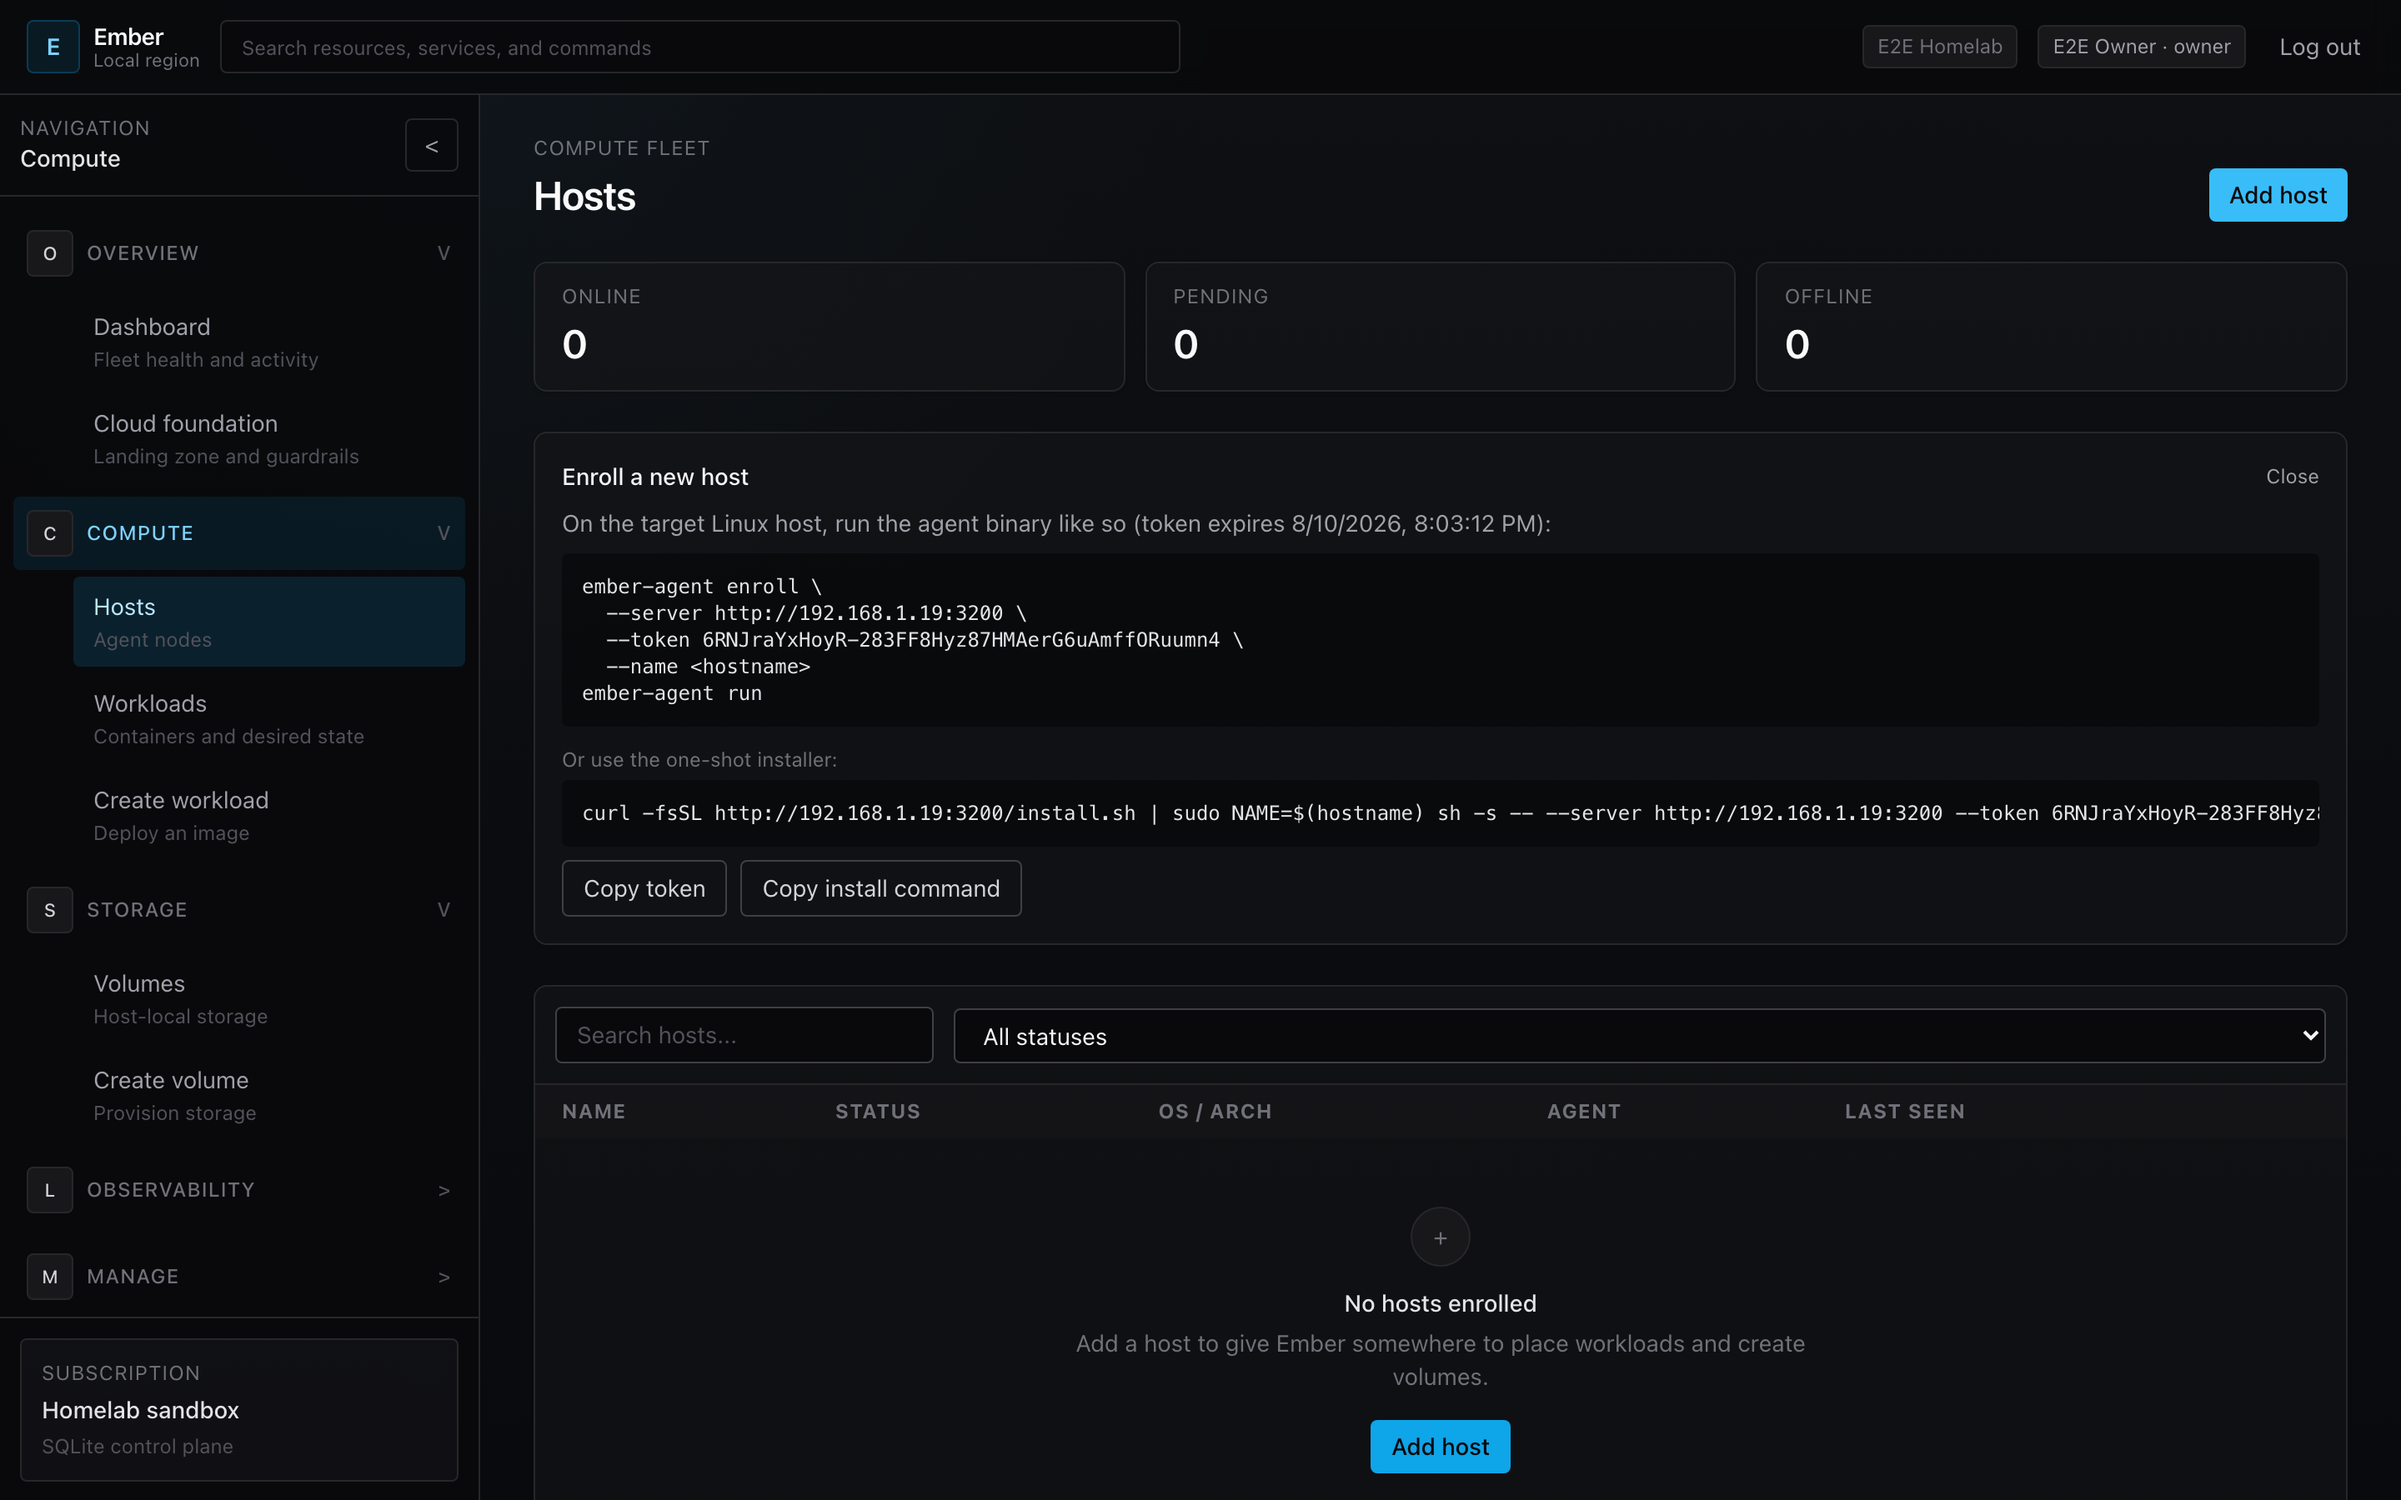
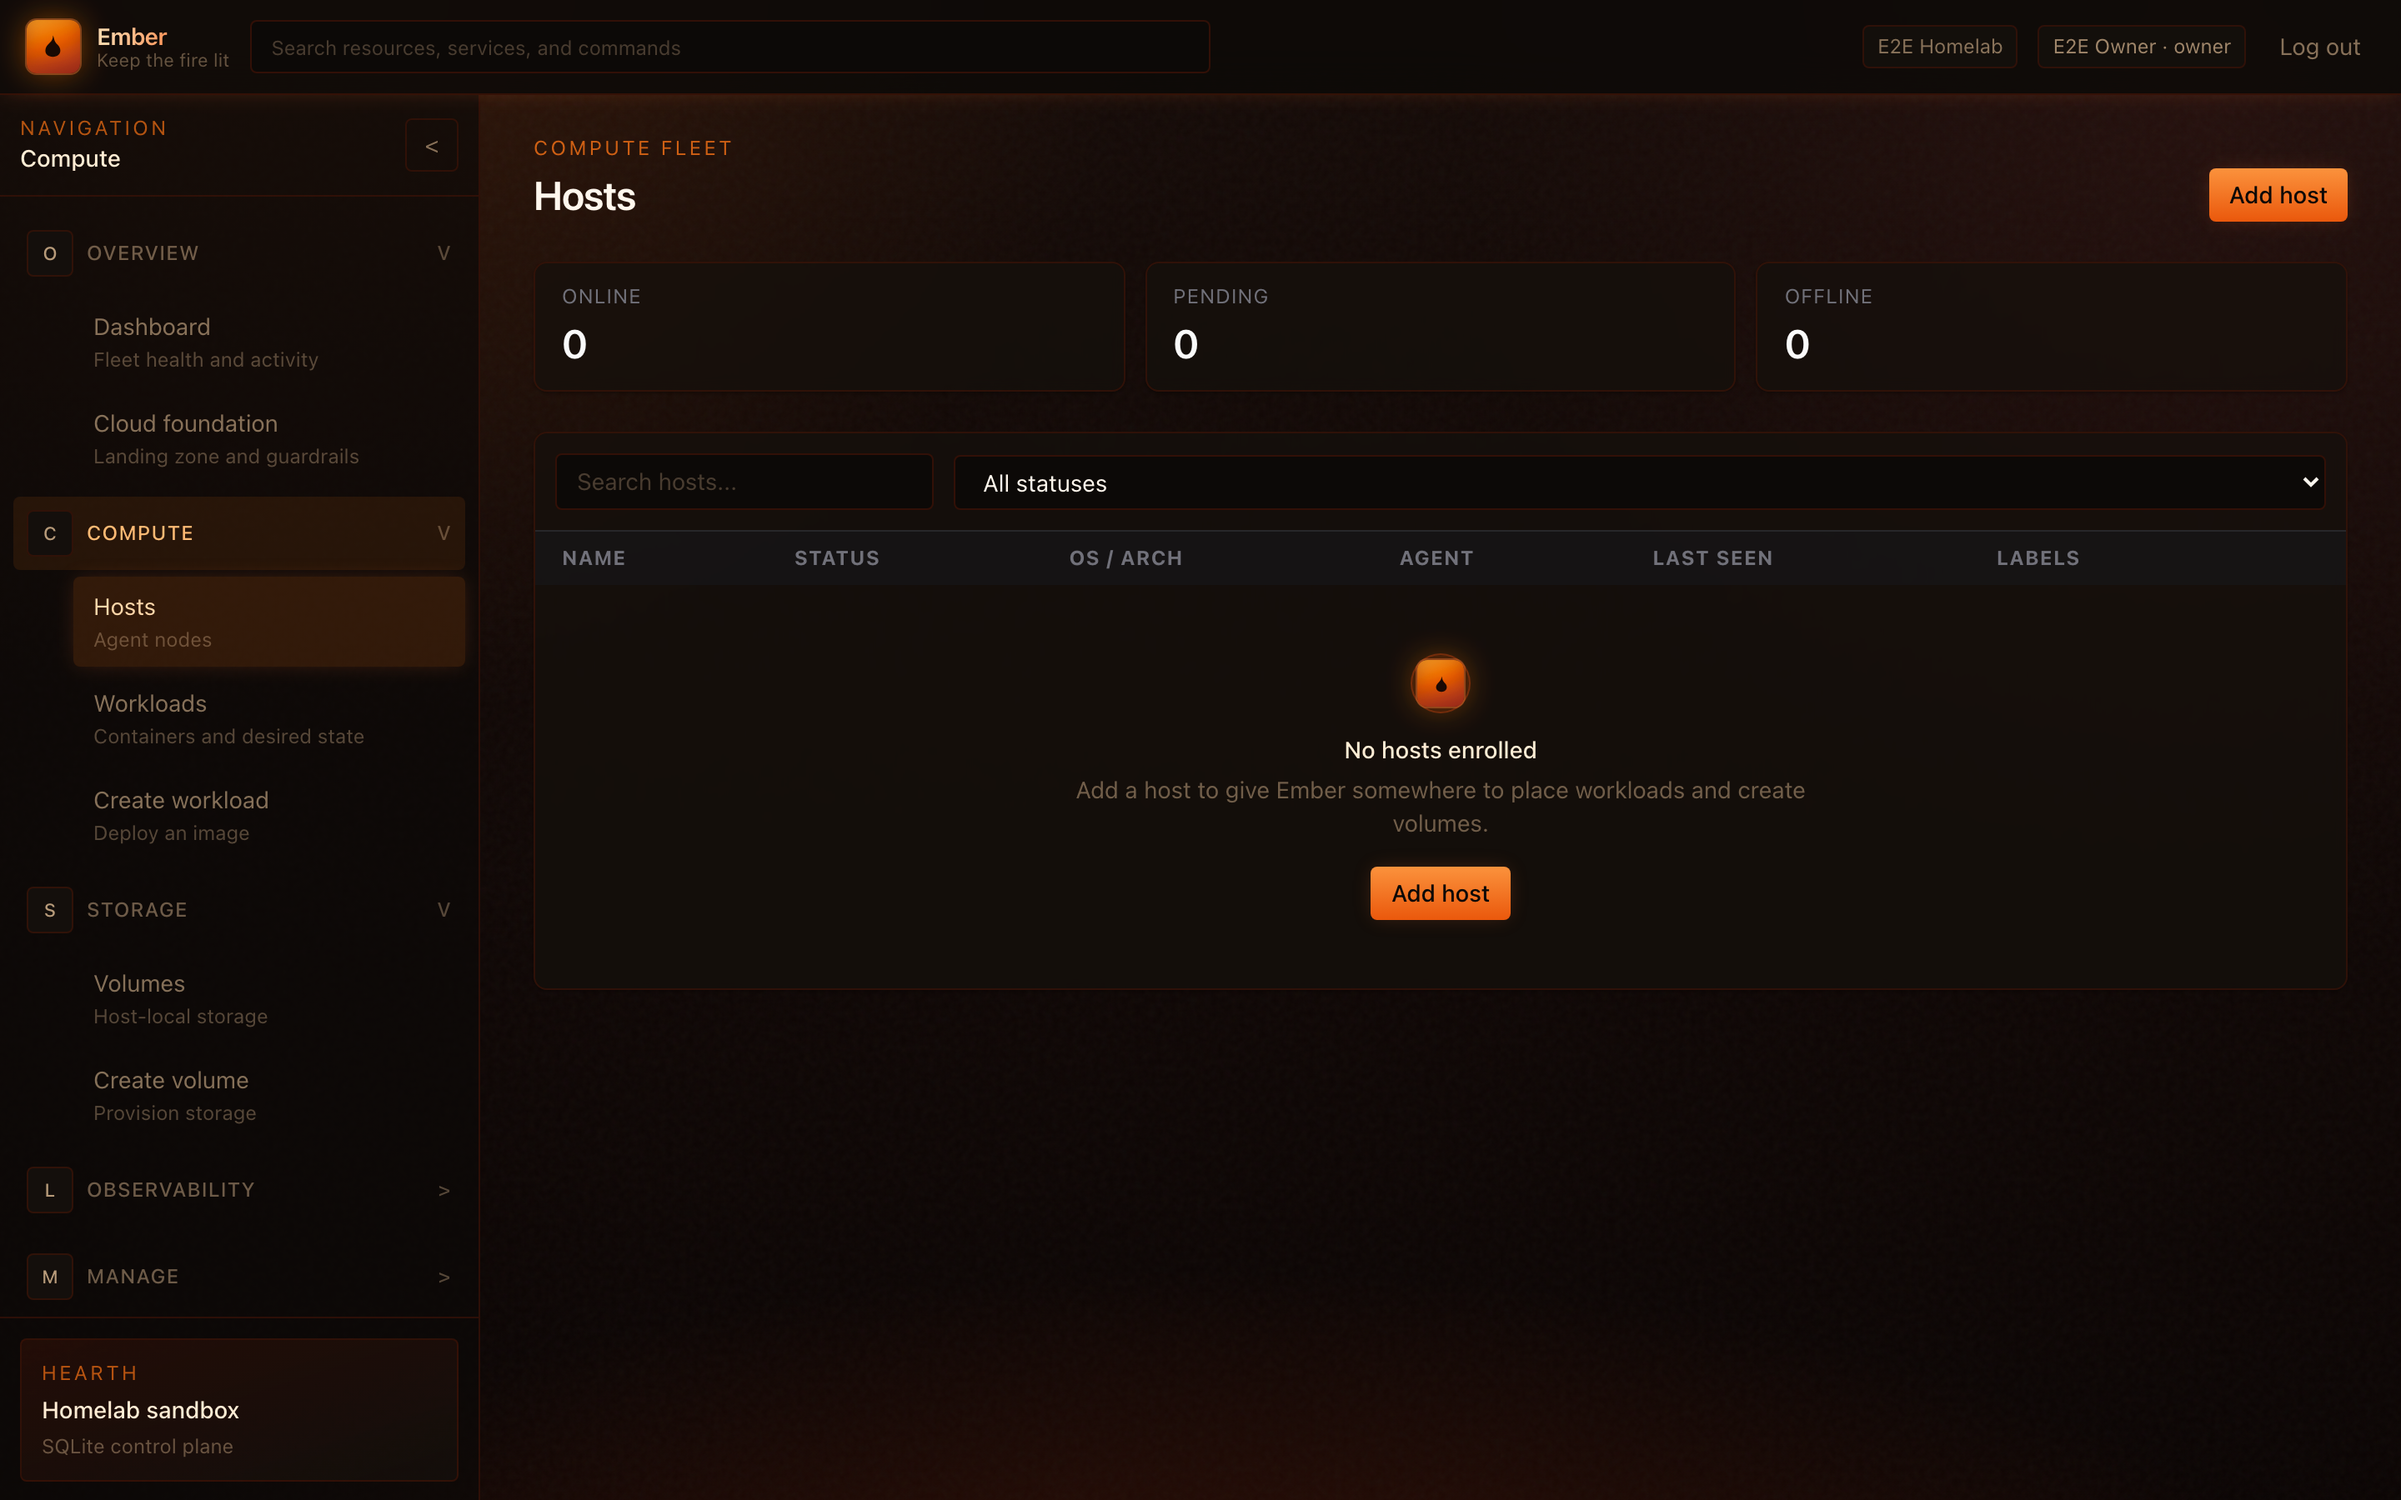
fix: green CI, close logging issues, fire-theme screenshots
- Align workload form e2e with auto-placement defaults
- Ship Next standalone image to drop npm tree HIGH/CRITICAL noise
- Override transitive npm vulns in lockfiles
- Recapture README screenshots with ember fire theme
- Close issues #3–#12 as shipped

diff --git a/e2e/tests/browser/volumes-workloads.spec.ts b/e2e/tests/browser/volumes-workloads.spec.ts
@@ -39,11 +39,24 @@ test.describe('README volume + workload forms (no agent)', () => {
       (el) => (el as HTMLInputElement).value,
     );
     expect(image).toBe('nginx:alpine');
-    const disabled = await authedPage.$eval(
+    // Auto-place is the default: submit is enabled without a pinned host.
+    const autoPlace = await authedPage.$eval(
+      '[data-testid="workload-placement-auto"]',
+      (el) => (el as HTMLInputElement).checked,
+    );
+    expect(autoPlace).toBe(true);
+    const enabledWithAuto = await authedPage.$eval(
       '[data-testid="workload-submit"]',
       (el) => (el as HTMLButtonElement).disabled,
     );
-    expect(disabled).toBe(true);
+    expect(enabledWithAuto).toBe(false);
+    // Pin-host mode with zero hosts keeps submit disabled.
+    await authedPage.click('[data-testid="workload-placement-auto"]');
+    const disabledPinned = await authedPage.$eval(
+      '[data-testid="workload-submit"]',
+      (el) => (el as HTMLButtonElement).disabled,
+    );
+    expect(disabledPinned).toBe(true);
     const addPort = await authedPage.$('xpath///button[contains(., "Add port")]');
     if (addPort) {
       await addPort.click();
